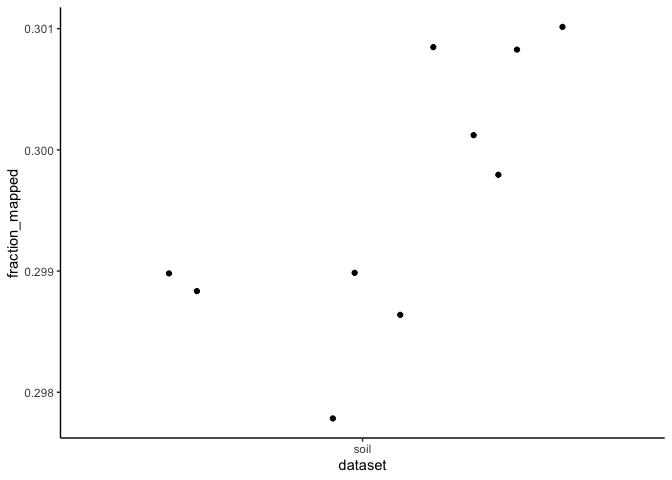
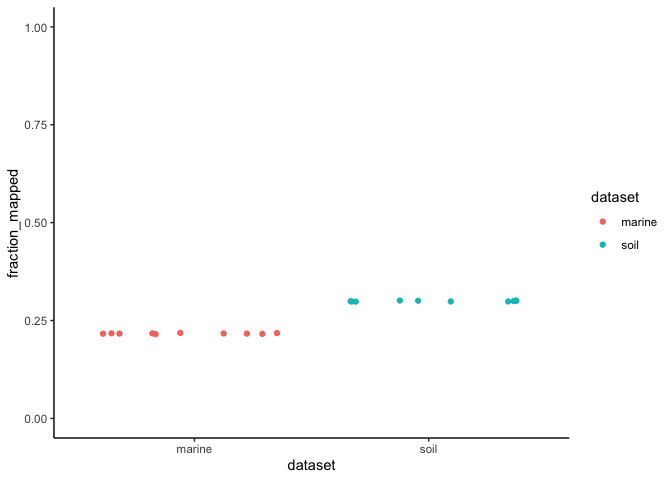
Update plots with marine data

diff --git a/exploratory/2020/README.md b/exploratory/2020/README.md
@@ -17,7 +17,7 @@ relevel_method <- function(df) {
 }
 plot_jitter <- function(df, y) {
   df %>% group_by(dataset, method) %>% 
-      ggplot(aes(x=method, y={{ y }}, fill=dataset)) +
+      ggplot(aes(x=method, y={{ y }}, color=dataset)) +
   geom_jitter()
 }
 ```
@@ -42,10 +42,11 @@ benchmarks %>%
 ![](figures/fit_db_benchmarks-1.png)<!-- -->
 
 ``` r
-df_fraction_mapped <- read_tsv(here('subworkflows/2_fit_reference_db/results/fraction_reads_mapped.txt'))
-df_fraction_mapped %>% 
-  ggplot(aes(dataset, fraction_mapped)) +
-  geom_jitter()
+fractions <- read_tsv(here('subworkflows/2_fit_reference_db/results/fraction_reads_mapped.txt'))
+fractions %>% 
+  ggplot(aes(x=dataset, y=fraction_mapped, color=dataset)) +
+  geom_jitter() +
+  ylim(0, 1)
 ```
 
 ![](figures/fraction_reads_mapped-1.png)<!-- -->
